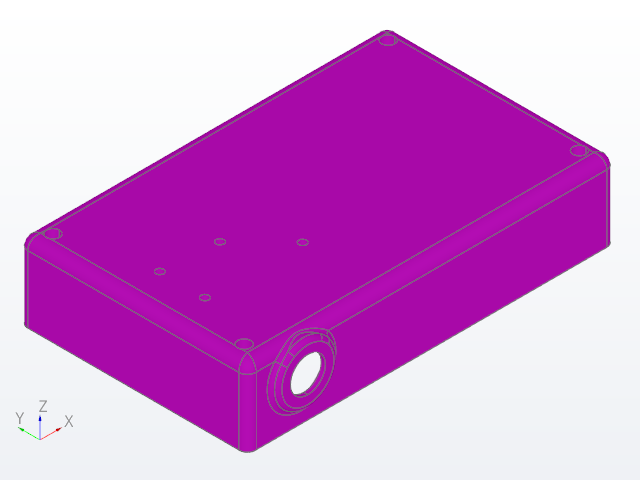
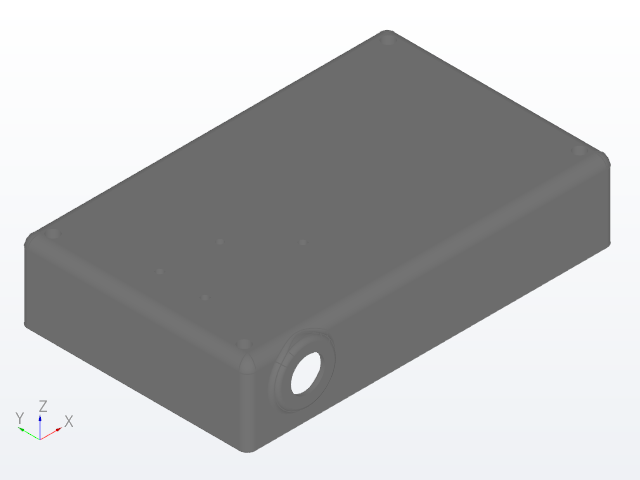
Draw the enclosure in its own colour; reject unreadable input in the measuring tool
step_check.read takes an unlocated option: a solid without a colour in
its place is looked up without its placement. step_render uses it, so
case_front is drawn in the file's grey instead of the fallback magenta.
_measure_rcbench_case.py checks ReadFile and Transfer and exits 1 with a
message for a missing file, an unreadable file, a failed transfer or a
file without a shape; a test covers each.

diff --git a/test/tools/test_measure_rcbench_case.py b/test/tools/test_measure_rcbench_case.py
@@ -1,0 +1,61 @@
+"""hardware/mechanical/_measure_rcbench_case.py: failures of the input.
+
+A missing file, a file that is not STEP and a STEP file without a shape
+exit 1 with a message on stderr; the delivered file exits 0.
+
+SPDX-License-Identifier: MIT
+"""
+
+import sys
+from pathlib import Path
+
+import pytest
+
+pytest.importorskip("OCP")
+ROOT = Path(__file__).resolve().parents[2]
+sys.path.insert(0, str(ROOT / "hardware" / "mechanical"))
+import _measure_rcbench_case as measure  # noqa: E402
+
+EMPTY_STEP = """ISO-10303-21;
+HEADER;
+FILE_DESCRIPTION((''),'2;1');
+FILE_NAME('x','2026-01-01T00:00:00',(''),(''),'','','');
+FILE_SCHEMA(('AUTOMOTIVE_DESIGN { 1 0 10303 214 1 1 1 1 }'));
+ENDSEC;
+DATA;
+ENDSEC;
+END-ISO-10303-21;
+"""
+
+
+def test_missing_file_fails(tmp_path, capsys):
+    """A path that does not exist exits 1 and names the path."""
+    path = tmp_path / "none.step"
+    assert measure.main([str(path)]) == 1
+    err = capsys.readouterr()
+    assert "no such file" in err.err and str(path) in err.err
+    assert "valid" not in err.out
+
+
+def test_non_step_file_fails(tmp_path, capsys):
+    """A text file that is not STEP exits 1 and prints no result."""
+    path = tmp_path / "text.step"
+    path.write_text("not a STEP file\n")
+    assert measure.main([str(path)]) == 1
+    err = capsys.readouterr()
+    assert "not read" in err.err and "valid" not in err.out
+
+
+def test_step_without_shape_fails(tmp_path, capsys):
+    """A STEP file with no shape exits 1 and prints no result."""
+    path = tmp_path / "empty.step"
+    path.write_text(EMPTY_STEP)
+    assert measure.main([str(path)]) == 1
+    err = capsys.readouterr()
+    assert err.err and "valid" not in err.out
+
+
+def test_delivered_file_passes(capsys):
+    """The enclosure's file reads and every shape is valid."""
+    assert measure.main([]) == 0
+    assert capsys.readouterr().out.rstrip().endswith("valid")

diff --git a/hardware/mechanical/_measure_rcbench_case.py b/hardware/mechanical/_measure_rcbench_case.py
@@ -23,6 +23,7 @@ from OCP.BRepBndLib import BRepBndLib
 from OCP.BRepCheck import BRepCheck_Analyzer
 from OCP.BRepGProp import BRepGProp
 from OCP.GProp import GProp_GProps
+from OCP.IFSelect import IFSelect_RetDone
 from OCP.STEPCAFControl import STEPCAFControl_Reader
 from OCP.TCollection import TCollection_ExtendedString
 from OCP.TDataStd import TDataStd_Name
@@ -96,20 +97,32 @@ def main(argv):
         argv: Command-line arguments without the program name: the file.
 
     Returns:
-        0 when every shape is valid, 1 otherwise.
+        0 when the file reads and every shape is valid; 1 when the file
+        is missing, does not read or transfer, holds no shape, or holds an
+        invalid one. The reason goes to stderr.
     """
     path = Path(argv[0]) if argv else DEFAULT
+    if not path.is_file():
+        print(f"{path}: no such file", file=sys.stderr)
+        return 1
     doc = TDocStd_Document(TCollection_ExtendedString("rcbench"))
     reader = STEPCAFControl_Reader()
     reader.SetNameMode(True)
-    reader.ReadFile(str(path))
-    reader.Transfer(doc)
+    if reader.ReadFile(str(path)) != IFSelect_RetDone:
+        print(f"{path}: not read as a STEP file", file=sys.stderr)
+        return 1
+    if not reader.Transfer(doc):
+        print(f"{path}: STEP content not transferred", file=sys.stderr)
+        return 1
     tool = XCAFDoc_DocumentTool.ShapeTool_s(doc.Main())
     valid = []
     child = TDF_ChildIterator(doc.Main().FindChild(1))
     while child.More():
         _walk(tool, child.Value(), 0, valid)
         child.Next()
+    if not valid:
+        print(f"{path}: no shape", file=sys.stderr)
+        return 1
     print("valid" if all(valid) else "INVALID")
     return 0 if all(valid) else 1
 

diff --git a/hardware/kicad/tools/step_check.py b/hardware/kicad/tools/step_check.py
@@ -49,11 +49,14 @@ sys.path.insert(0, str(HERE.parent.parent / "mechanical"))
 import gen_models  # noqa: E402
 
 
-def read(path):
+def read(path, unlocated=False):
     """Read one STEP file into an XCAF document.
 
     Args:
         path: The file.
+        unlocated: When a solid has no colour in its place, look for one
+            on the solid without its placement. An assembly's component
+            that Onshape placed carries its colour there.
 
     Returns:
         (shape, colour of each solid or None, in file order).
@@ -73,6 +76,9 @@ def read(path):
     while ex.More():
         col = Quantity_Color()
         ok = colors.GetColor(ex.Current(), XCAFDoc_ColorSurf, col)
+        if not ok and unlocated:
+            ok = colors.GetColor(ex.Current().Located(TopLoc_Location()),
+                                 XCAFDoc_ColorSurf, col)
         found.append((ex.Current(), (col.Red(), col.Green(), col.Blue())
                       if ok else None))
         ex.Next()

diff --git a/hardware/kicad/tools/step_render.py b/hardware/kicad/tools/step_render.py
@@ -96,7 +96,7 @@ class Renderer:
             RuntimeError: When the image cannot be written.
         """
         self.ctx.RemoveAll(False)
-        _shape, found = step_check.read(path)
+        _shape, found = step_check.read(path, unlocated=True)
         edge = Prs3d_LineAspect(_rgb(0.15, 0.15, 0.15),
                                 Aspect_TypeOfLine.Aspect_TOL_SOLID, 1.0)
         for solid, col in found:

diff --git a/hardware/mechanical/README.md b/hardware/mechanical/README.md
@@ -522,15 +522,14 @@ y = 101.385mm.
 
 The frame is the assembly's, as Onshape wrote it. `case_front` sits in it
 moved by (0.06, -1.385, -8.78)mm from its own frame; the 3 other solids
-sit moved and turned from their products' frames, so that
-the sockets' axes lie along y. The file does not say which axis points up.
+sit moved and turned from their products' frames, so that the sockets'
+axes lie along y. The file does not say which axis points up.
 
 The picture is OpenCASCADE's render, from above the front left. It draws
-`case_front` in magenta, the render's colour for a solid without a colour
-OpenCASCADE reads; the file holds 4 colours, and the 3 other solids carry
-colours that the shell hides in this view. Whether the parts fit each
-other is not checked: no check holds the 4 solids against each other, and
-no model of a board or a part sits in the enclosure. The file has no
+`case_front` in the grey of the file's colour for that solid; the 3 other
+solids carry colours of their own that the shell hides in this view. Whether the parts fit each other is not checked: no
+check holds the 4 solids against each other, and no model of a board or a
+part sits in the enclosure. The file has no
 printing information. The wall thickness and the tolerances are not
 measured here.
 
